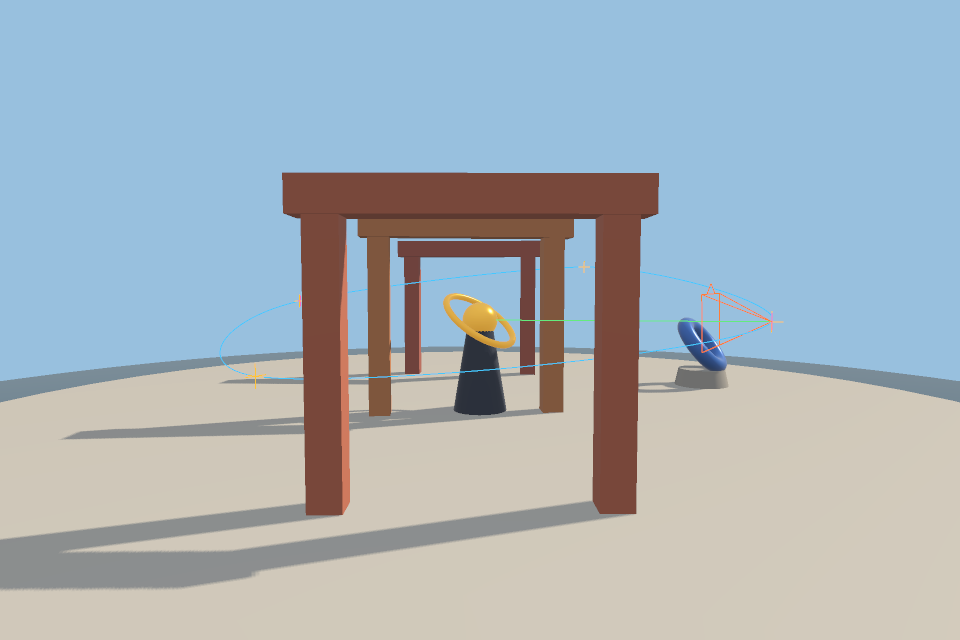
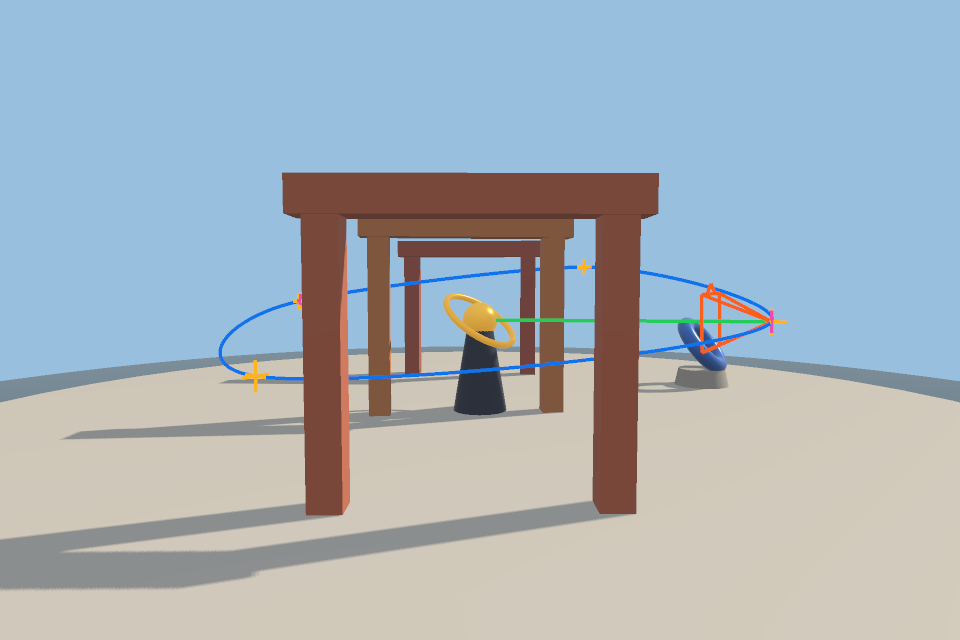
Add Frame.DynamicLineWidth and thicken camera path overlays

diff --git a/camera_path.go b/camera_path.go
@@ -150,7 +150,8 @@ func (r *sceneResolver) resolveDepth(ref string, t time.Duration, depth int) (nt
 // DefaultCameraPathOverlayOptions.
 type CameraPathOverlayOptions struct {
 	CurveSamples     int              // Number of polyline samples along the path (default 128).
-	ControlPointSize float64          // Half-extent of control-point 3D cross markers in meters (default 0.22).
+	LineWidth        float32          // Pixel width applied to f.DynamicLineWidth (default 3).
+	ControlPointSize float64          // Half-extent of control-point 3D cross markers in meters (default 0.28).
 	FrustumDepth     float64          // Length of the camera frustum pyramid in meters (default 1.2).
 	LookRayLength    float64          // Length of the look-direction ray in meters (0 uses FocusDist or 2.5*FrustumDepth).
 	Resolver         nt3dcam.Resolver // Optional per-call resolver for evaluating path at t.
@@ -169,13 +170,14 @@ type CameraPathOverlayOptions struct {
 func DefaultCameraPathOverlayOptions() CameraPathOverlayOptions {
 	return CameraPathOverlayOptions{
 		CurveSamples:     128,
-		ControlPointSize: 0.22,
+		LineWidth:        3,
+		ControlPointSize: 0.28,
 		FrustumDepth:     1.2,
-		CurveColor:       color.RGBA{R: 70, G: 200, B: 255, A: 255},
-		ControlColor:     color.RGBA{R: 255, G: 195, B: 55, A: 255},
-		MarkerColor:      color.RGBA{R: 255, G: 105, B: 185, A: 255},
-		FrustumColor:     color.RGBA{R: 255, G: 125, B: 55, A: 255},
-		LookRayColor:     color.RGBA{R: 100, G: 235, B: 125, A: 255},
+		CurveColor:       color.RGBA{R: 35, G: 160, B: 250, A: 255},
+		ControlColor:     color.RGBA{R: 255, G: 180, B: 30, A: 255},
+		MarkerColor:      color.RGBA{R: 235, G: 75, B: 175, A: 255},
+		FrustumColor:     color.RGBA{R: 250, G: 95, B: 30, A: 255},
+		LookRayColor:     color.RGBA{R: 35, G: 205, B: 90, A: 255},
 	}
 }
 
@@ -194,6 +196,9 @@ func AppendCameraPathOverlay(f *Frame, path *nt3dcam.Path, t time.Duration, opts
 		in := opts[0]
 		if in.CurveSamples > 0 {
 			o.CurveSamples = in.CurveSamples
+		}
+		if in.LineWidth > 0 {
+			o.LineWidth = in.LineWidth
 		}
 		if in.ControlPointSize > 0 {
 			o.ControlPointSize = in.ControlPointSize
@@ -225,6 +230,12 @@ func AppendCameraPathOverlay(f *Frame, path *nt3dcam.Path, t time.Duration, opts
 		o.HideControlPts = in.HideControlPts
 		o.HideFrustum = in.HideFrustum
 		o.HideLookRay = in.HideLookRay
+	}
+	if o.LineWidth > 0 && validFloat(o.LineWidth) {
+		clamped := min(float32(32), max(float32(1), o.LineWidth))
+		if clamped > f.DynamicLineWidth {
+			f.DynamicLineWidth = clamped
+		}
 	}
 
 	toFrame := func(p nt3dcam.Vec3d) nt3dmath.Vec3 {

diff --git a/examples/demos/internal/demo/campath.go b/examples/demos/internal/demo/campath.go
@@ -541,22 +541,22 @@ func (d *demo) decorateCamPath(f *nt3d.Frame) {
 		return
 	}
 
+	baseOpts := nt3d.CameraPathOverlayOptions{
+		Resolver:   cp.resolver,
+		LineWidth:  3.5,
+		CurveColor: color.RGBA{R: 15, G: 115, B: 235, A: 255},
+	}
 	if !cp.riding {
-		// In Director Orbit view, draw both paths (dim companion + full active frustum & look ray).
+		// In Director Orbit view, draw both paths (companion + full active frustum & look ray).
 		if cp.preset == camPresetSwitcher {
-			nt3d.AppendCameraPathOverlay(f, cp.flythrough, cp.playhead, nt3d.CameraPathOverlayOptions{
-				Resolver: cp.resolver,
-			})
-			nt3d.AppendCameraPathOverlay(f, cp.orbit, cp.playhead, nt3d.CameraPathOverlayOptions{
-				Resolver:     cp.resolver,
-				CurveColor:   color.RGBA{R: 130, G: 235, B: 190, A: 255},
-				FrustumColor: color.RGBA{R: 255, G: 210, B: 75, A: 255},
-			})
+			nt3d.AppendCameraPathOverlay(f, cp.flythrough, cp.playhead, baseOpts)
+			orbitOpts := baseOpts
+			orbitOpts.CurveColor = color.RGBA{R: 20, G: 185, B: 135, A: 255}
+			orbitOpts.FrustumColor = color.RGBA{R: 245, G: 185, B: 30, A: 255}
+			nt3d.AppendCameraPathOverlay(f, cp.orbit, cp.playhead, orbitOpts)
 			return
 		}
-		nt3d.AppendCameraPathOverlay(f, d.activeCamPath(), cp.playhead, nt3d.CameraPathOverlayOptions{
-			Resolver: cp.resolver,
-		})
+		nt3d.AppendCameraPathOverlay(f, d.activeCamPath(), cp.playhead, baseOpts)
 		return
 	}
 
@@ -566,9 +566,7 @@ func (d *demo) decorateCamPath(f *nt3d.Frame) {
 	if cp.preset == camPresetOrbit {
 		companion = cp.flythrough
 	}
-	nt3d.AppendCameraPathOverlay(f, companion, cp.playhead, nt3d.CameraPathOverlayOptions{
-		Resolver: cp.resolver,
-	})
+	nt3d.AppendCameraPathOverlay(f, companion, cp.playhead, baseOpts)
 }
 
 func (d *demo) activeMarkerName() string {

diff --git a/renderer.go b/renderer.go
@@ -72,11 +72,12 @@ type Frame struct {
 	// the same nonzero value hold the same geometry, which renderers may
 	// upload once and draw together. Scene.Frame supplies it for nodes that
 	// show one SharedGeometry.
-	Shared       []uint64
-	Instances    []Instance
-	DynamicLines []Vertex // World-space pairs, depth-tested with a small positive bias.
-	Overlays     []OverlayRect
-	CellText     []CellText
+	Shared           []uint64
+	Instances        []Instance
+	DynamicLines     []Vertex // World-space pairs, depth-tested with a small positive bias.
+	DynamicLineWidth float32  // Render pixels for DynamicLines; zero defaults to 1.
+	Overlays         []OverlayRect
+	CellText         []CellText
 	// Environment supplies a distant sky, diffuse light, and material reflections.
 	// Nil preserves the solid Background. EnvironmentStrength scales the light;
 	// zero means 1. EnvironmentBackgroundOnly disables diffuse light and
@@ -395,6 +396,9 @@ func validateFrame(f Frame) error {
 	}
 	if len(f.DynamicLines)%2 != 0 {
 		return fmt.Errorf("nt3d: incomplete dynamic line")
+	}
+	if !validWidth(f.DynamicLineWidth) {
+		return fmt.Errorf("nt3d: invalid dynamic line width")
 	}
 	for _, v := range f.DynamicLines {
 		if !finiteVec(v.Position) {

diff --git a/camera_path_test.go b/camera_path_test.go
@@ -274,4 +274,40 @@ camera_path:
 	if nonBG < 25 {
 		t.Fatalf("expected visible overlay lines, got only %d non-background pixels", nonBG)
 	}
+
+	// Verify DynamicLineWidth scales stroke coverage cleanly and rejects out-of-range widths.
+	fThin := f
+	fThin.DynamicLineWidth = 1
+	imgThin, err := sw.Render(fThin)
+	if err != nil {
+		t.Fatal(err)
+	}
+	fThick := f
+	fThick.DynamicLineWidth = 4
+	imgThick, err := sw.Render(fThick)
+	if err != nil {
+		t.Fatal(err)
+	}
+	countNonBG := func(im interface {
+		At(int, int) color.Color
+	}) int {
+		n := 0
+		for y := range 150 {
+			for x := range 200 {
+				r, g, b, _ := im.At(x, y).RGBA()
+				if r>>8 != 15 || g>>8 != 18 || b>>8 != 24 {
+					n++
+				}
+			}
+		}
+		return n
+	}
+	if thinN, thickN := countNonBG(imgThin), countNonBG(imgThick); thickN <= thinN*2 {
+		t.Fatalf("expected DynamicLineWidth=4 (%d px) to cover >2x DynamicLineWidth=1 (%d px)", thickN, thinN)
+	}
+	fBad := f
+	fBad.DynamicLineWidth = 64
+	if _, err := sw.Render(fBad); err == nil {
+		t.Fatal("expected out-of-range DynamicLineWidth to fail validation")
+	}
 }

diff --git a/render_gpu_test.go b/render_gpu_test.go
@@ -107,6 +107,22 @@ func TestGPUAllPrimitivesAndOverlays(t *testing.T) {
 			t.Fatalf("missing GPU batch %d", batch)
 		}
 	}
+
+	// Verify DynamicLineWidth scales GPU stroke coverage just like Geometry.LineWidth.
+	fDyn1 := frame(t, NewScene())
+	fDyn1.DynamicLines = g.Lines
+	fDyn1.DynamicLineWidth = 1
+	imgDyn1, err := r.Render(fDyn1)
+	check(t, err)
+	fDyn5 := fDyn1
+	fDyn5.DynamicLineWidth = 5
+	imgDyn5, err := r.Render(fDyn5)
+	check(t, err)
+	lit1 := fDyn1.Width*fDyn1.Height - coloredPixels(imgDyn1, fDyn1.Background)
+	lit5 := fDyn5.Width*fDyn5.Height - coloredPixels(imgDyn5, fDyn5.Background)
+	if lit1 == 0 || lit5 <= lit1*3 {
+		t.Fatalf("expected GPU DynamicLineWidth=5 (%d px) > 3x DynamicLineWidth=1 (%d px)", lit5, lit1)
+	}
 }
 
 // Deliberately different fallback pixels prove the GPU samples the shader

diff --git a/render_software.go b/render_software.go
@@ -658,8 +658,9 @@ func softwareDrawDepthHDR(f Frame, scale int, depth []float32, wantHDR bool) (*i
 			}
 		}
 	}
+	dynWidth := lineWidth(f.DynamicLineWidth) * px
 	for i := 0; i+1 < len(f.DynamicLines); i += 2 {
-		rasterStroke(f, f.DynamicLines[i], f.DynamicLines[i+1], px, 0, .00002, put, strokeFog(f.DynamicLines[i].Position, f.DynamicLines[i+1].Position))
+		rasterStroke(f, f.DynamicLines[i], f.DynamicLines[i+1], dynWidth, 0, .00002, put, strokeFog(f.DynamicLines[i].Position, f.DynamicLines[i+1].Position))
 	}
 	// Interactive frames sample screen-space marks (points, lines, arrows),
 	// which stay legible thinned. Every triangle is drawn: sampling surfaces

diff --git a/render_gpu.go b/render_gpu.go
@@ -615,9 +615,10 @@ func (g *gpuRenderer) uploadUI(dev *wgpu.Device, f Frame) error {
 }
 
 func (g *gpuRenderer) uploadLines(dev *wgpu.Device, f Frame) error {
+	w := lineWidth(f.DynamicLineWidth)
 	var data []byte
 	for _, v := range f.DynamicLines {
-		data = append(data, floats(v.Position.X, v.Position.Y, v.Position.Z, 1, 0, 0, 0, 0, float32(v.Color.R)/255, float32(v.Color.G)/255, float32(v.Color.B)/255, 0)...)
+		data = append(data, floats(v.Position.X, v.Position.Y, v.Position.Z, w, 0, 0, 0, 0, float32(v.Color.R)/255, float32(v.Color.G)/255, float32(v.Color.B)/255, 0)...)
 	}
 	return g.uploadDynamic(dev, 5, data)
 }

diff --git a/CHANGELOG.md b/CHANGELOG.md
@@ -148,10 +148,11 @@ dedicated subpackages.
   shadow, and picking transforms, eliminating `float32` vertex and depth jitter
   far from `(0, 0, 0)` with zero overhead when origins are unset.
 - Add `CameraFromState`, `StateFromCamera`, `SceneResolver` (resolving
-  `"node:<name>"` world positions and `"path:<name>"` trajectories), and
-  `AppendCameraPathOverlay` (`CameraPathOverlayOptions` /
-  `DefaultCameraPathOverlayOptions`) for 3D spline polylines, control points,
-  Bézier tangents, marker ticks, target rays, and live camera frustum pyramids.
+  `"node:<name>"` world positions and `"path:<name>"` trajectories),
+  `Frame.DynamicLineWidth`, and `AppendCameraPathOverlay`
+  (`CameraPathOverlayOptions` / `DefaultCameraPathOverlayOptions`) for 3D spline
+  polylines, control points, Bézier tangents, marker ticks, target rays, and
+  live camera frustum pyramids.
 - Add the `campath` demo (`task campath`, browser gallery #20, and
   `examples/gogpu`) showcasing a banked canyon flythrough, a closed orbit with
   focal-length pull, causal camera switching, bidirectional scrubbing, and an

diff --git a/docs/hugo/content/guide/rendering.md b/docs/hugo/content/guide/rendering.md
@@ -154,7 +154,7 @@ frame.PostProcess = nt3d.PostProcess{
 
 ## Decorations
 
-`DynamicLines`, `Overlays` (pixel rectangles), and `CellText` (wireframe labels) let a layer built on nt3d, such as a chart, add decorations to a frame without nt3d knowing what they mean. The widget's `WithFrameDecorator` adds them to each frame.
+`DynamicLines` (with optional pixel `DynamicLineWidth`), `Overlays` (pixel rectangles), and `CellText` (wireframe labels) let a layer built on nt3d, such as a chart or `AppendCameraPathOverlay`, add decorations to a frame without nt3d knowing what they mean. The widget's `WithFrameDecorator` adds them to each frame.
 
 ## Building frames by hand
 
